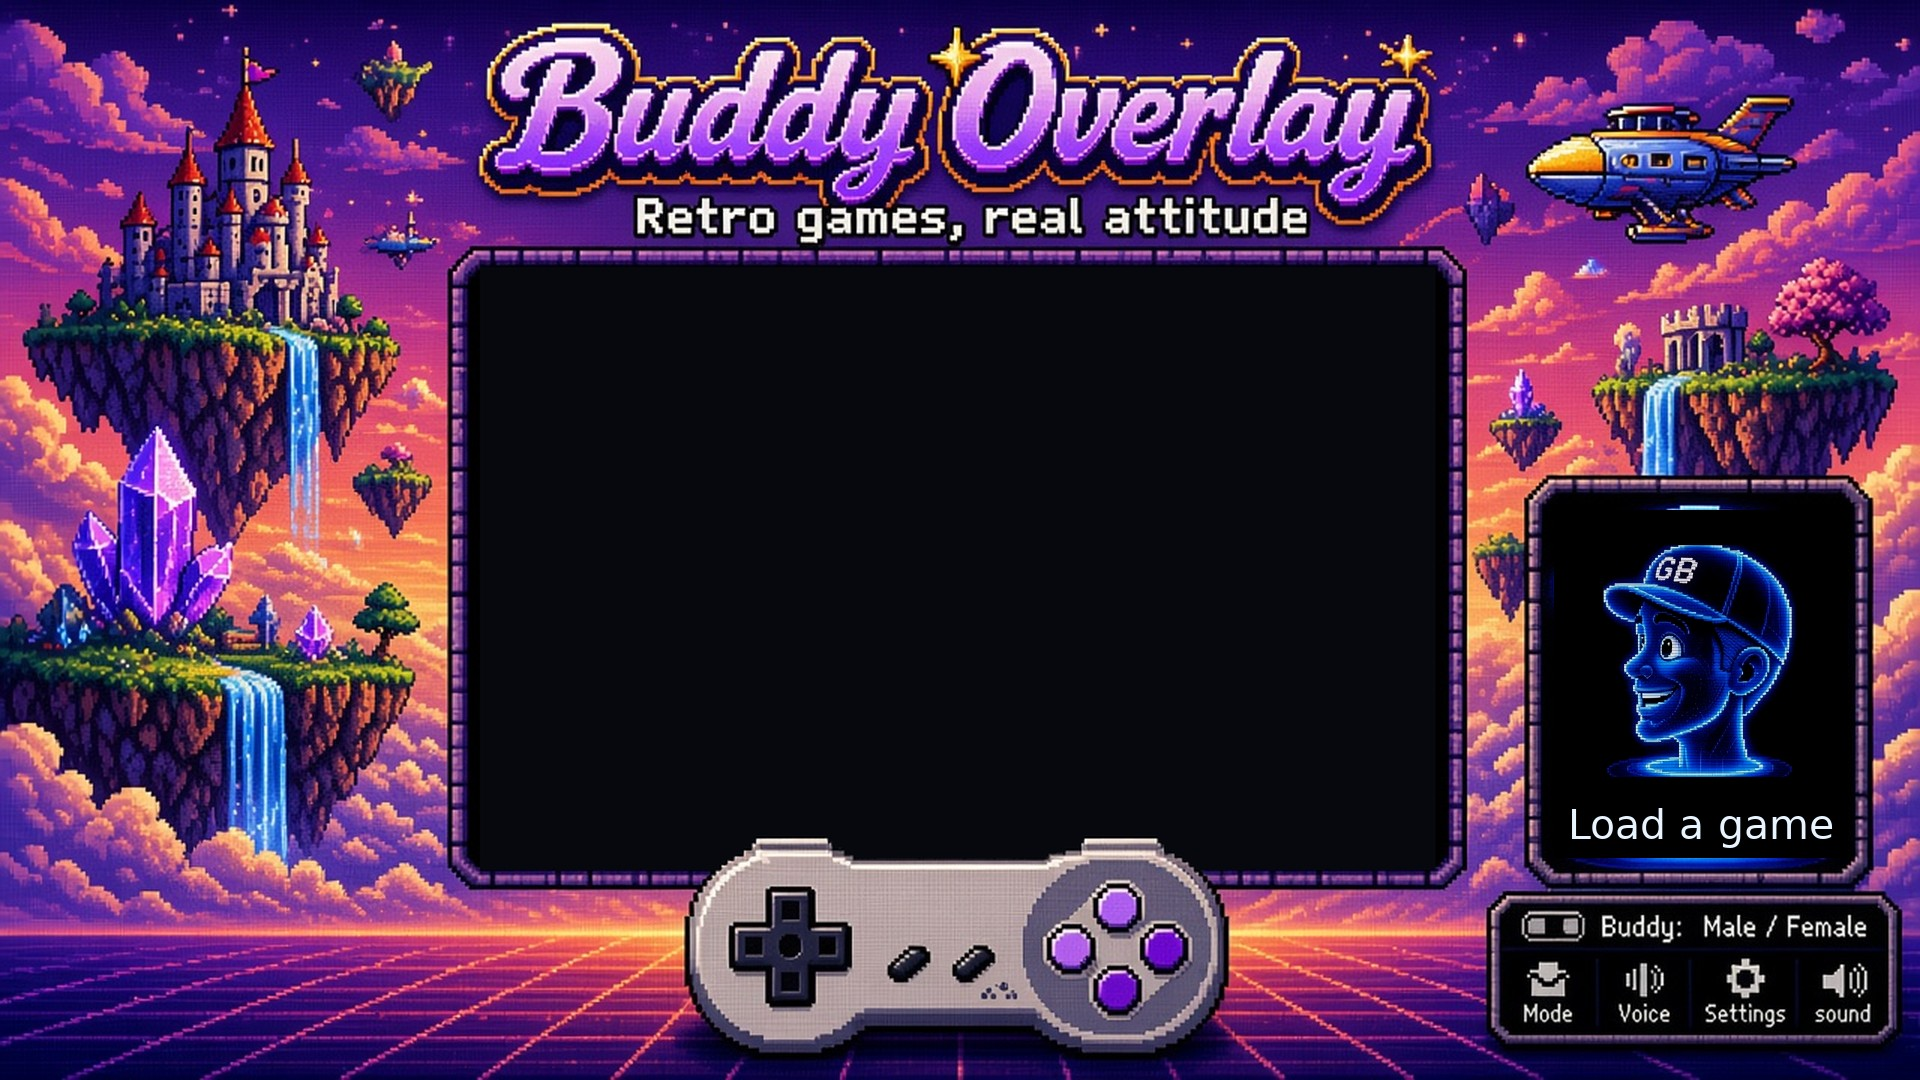
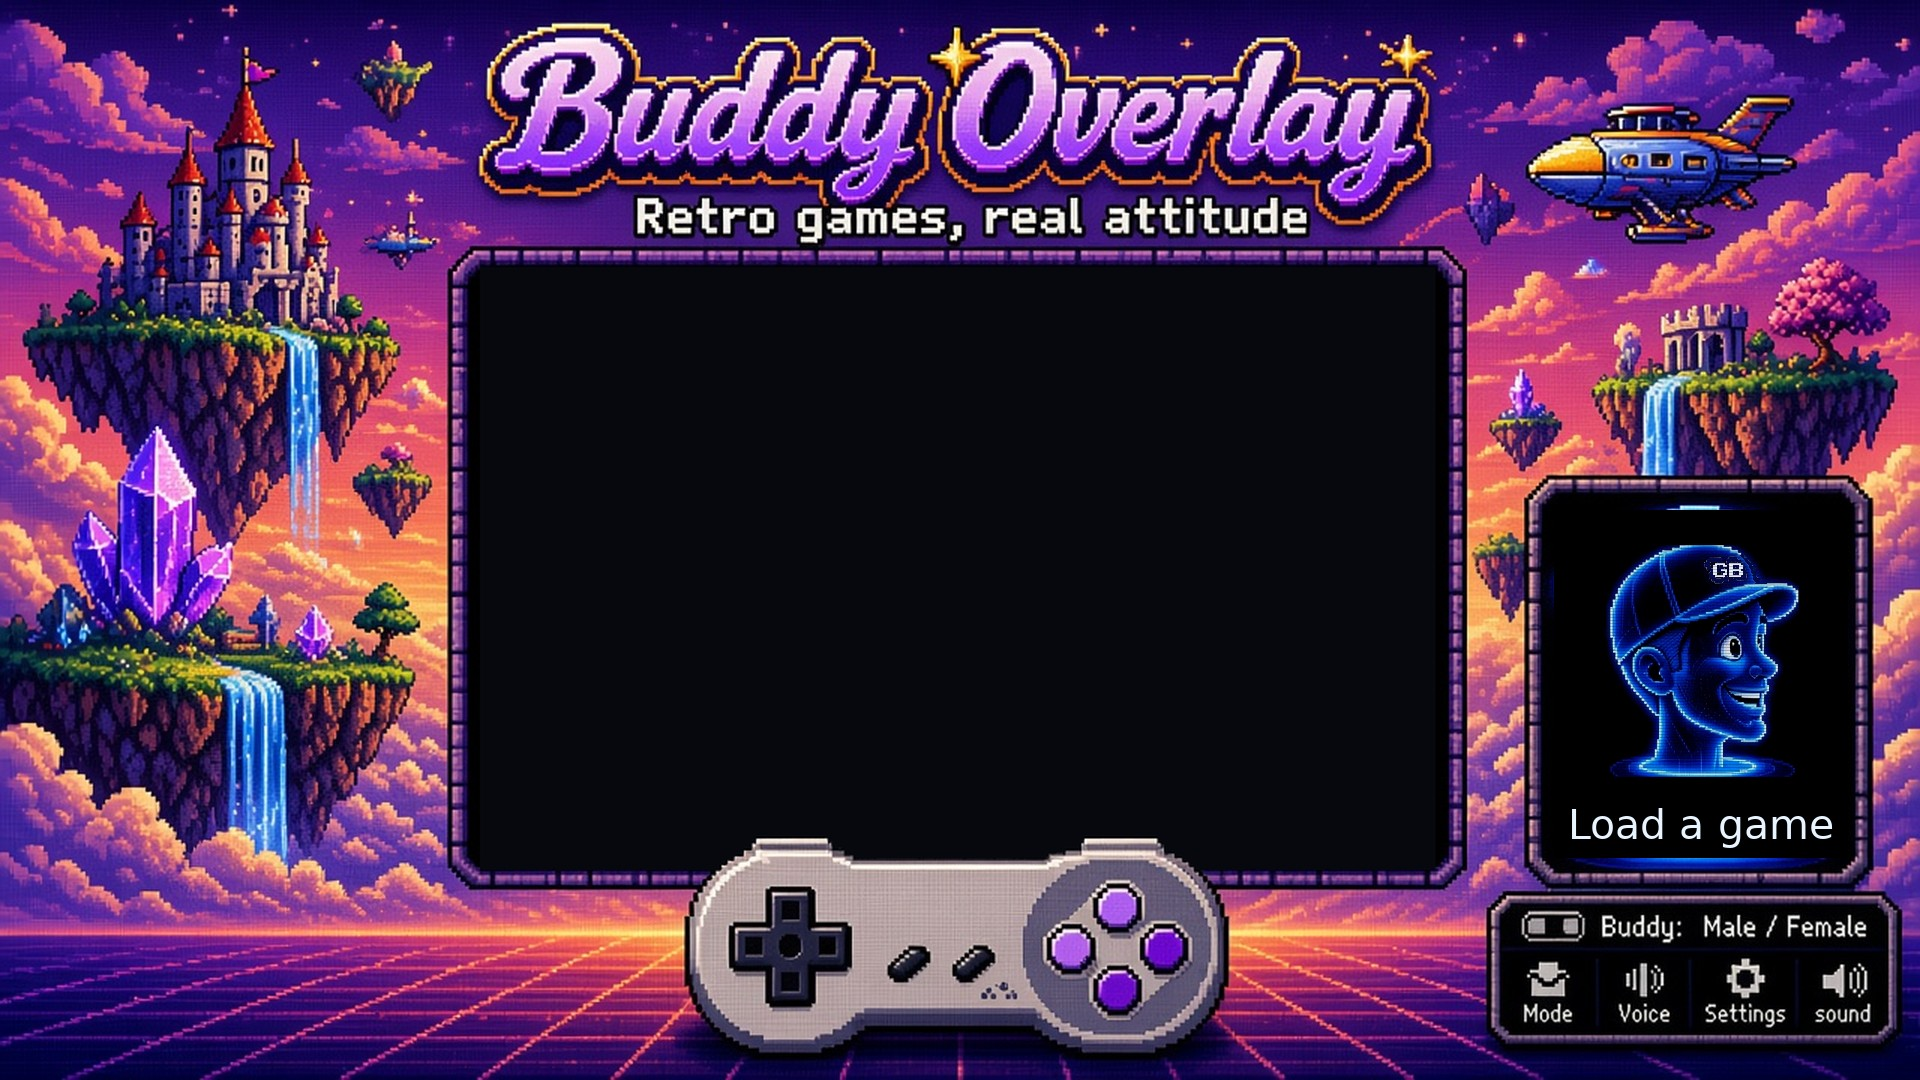
Turn the rest pose toward the game window.
The approved-frame cut faced the right bezel. Mirror it, redraw GB, and keep the female rest pose facing left so the nose points at the game hole.

Changed region(s): [[0.8125, 0.4889, 0.9375, 0.7333]]

diff --git a/backend/hologram_art.py b/backend/hologram_art.py
@@ -399,17 +399,32 @@ def build_character(character: str) -> CharacterArt:
     # The right-side front views are the same pictures; keep one set.
     art = CharacterArt(character, front_aligned, left_turns, right_turns, left_expr, right_expr, notes=notes)
     if character == "male":
-        # The turn sheet never reaches a side profile. The approved frames do.
+        # The turn sheet never reaches a side profile. The approved frames do,
+        # but that baked portrait looks toward the right bezel. face_left
+        # mirrors it so the nose points at the game, and redraws GB.
         art.rest_left = frame_rest_pose()
-        art.notes.append("male rest pose is the left profile cut from the approved frame.")
+        art.notes.append("male rest pose is the approved-frame profile, mirrored to face left.")
     else:
-        art.rest_left = left_turns[-1][1]
+        art.rest_left = face_left(left_turns[-1][1])
         art.notes.append("female rest pose is the left-facing turn profile.")
     return art
 
 
+def face_left(image: Image.Image) -> Image.Image:
+    """Return a profile whose nose is left of the neck, toward the game window.
+
+    Positive nose_offset means the nose points screen-right, at the bezel.
+    Mirroring that flips the nose toward the game hole. GB is redrawn so the
+    cap does not show reversed letters.
+    """
+    rgb = image.convert("RGB")
+    if nose_offset(rgb) > 0:
+        rgb = mirror_fix_gb(rgb)
+    return key_black(rgb)
+
+
 def frame_rest_pose() -> Image.Image:
-    """Left-profile head from the approved SNES frame. GB is the original art.
+    """Rest head from the approved SNES frame, nose toward the game hole.
 
     The crop is the inner well only. The bezel and its glow stay out of the sprite.
     """
@@ -417,7 +432,7 @@ def frame_rest_pose() -> Image.Image:
     box = PLACEMENTS["snes"]["buddy"]
     image = Image.open(FRAME_DIR / "snes-sky-kingdom.jpg").convert("RGB")
     x, y, w, h = box["x"], box["y"], box["width"], box["height"]
-    return key_black(image.crop((x, y, x + w, y + h)))
+    return face_left(image.crop((x, y, x + w, y + h)))
 
 
 def get_art(character: str = "male") -> CharacterArt:

diff --git a/tests/test_frames.py b/tests/test_frames.py
@@ -91,13 +91,25 @@ def test_rest_pose_faces_left_until_talking():
         assert yaw_at(t, "smile", "left") <= -0.8
         assert abs(yaw_at(t, "talk", "left")) <= 0.05
     profile = frame_rest_pose()
-    # Male rest is the left profile cut from the approved frame, not the front sheet.
+    # Male rest is the approved-frame profile, mirrored so the nose points left.
     assert _pose_sprite("male", "idle", yaw_at(0.3, "idle", "left"), 0).tobytes() == profile.tobytes()
     assert profile.tobytes() != get_art("male").front["neutral"].tobytes()
     assert _cap_text_present(profile)
     female_rest = get_art("female").rest_left
     assert female_rest.tobytes() != get_art("female").front["neutral"].tobytes()
     assert _cap_text_present(female_rest)
+    from backend.hologram_art import nose_offset
+    from backend.overlay_view import compose_overlay, layout_boxes
+    # Positive nose_offset is screen-right, toward the bezel and away from the game.
+    for character in ("male", "female"):
+        assert nose_offset(get_art(character).rest_left) < -2, character
+        posed = render_hologram("idle", t=0.4, size=280, character=character, resting="left")
+        assert nose_offset(posed) < -2, character
+    for size in ((1280, 720), (1920, 1080), (2560, 1440)):
+        image = compose_overlay("snes", size, expression="idle", game_running=False)
+        box = layout_boxes("snes", size, game_running=False)["head"]
+        crop = image.crop((box["x"], box["y"], box["x"] + box["width"], box["y"] + box["height"]))
+        assert nose_offset(crop) < -2, size
     rest = render_hologram("idle", t=0.3, mouth=0.0, size=140, character="male", resting="left")
     talking = render_hologram("talk", t=0.3, mouth=0.9, size=140, character="male", resting="left")
     assert rest.tobytes() != talking.tobytes()
